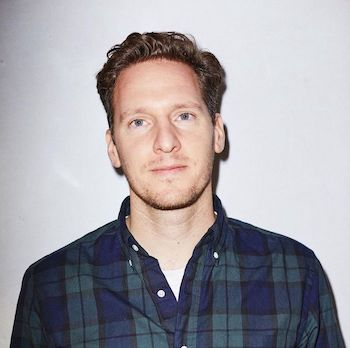
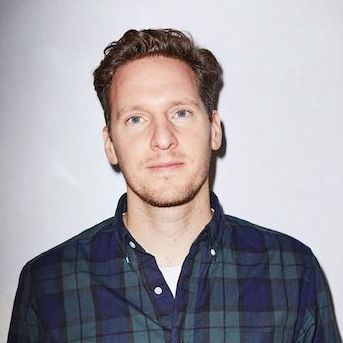
speaker images updated

diff --git a/_includes/block-google-map.html b/_includes/block-google-map.html
@@ -8,16 +8,16 @@
       <div class="bg-box__box">
         <h2 class="page-heading mb-2">{{ section.headline }}</h2>
         <p class="mb-5">{{ section.content }}</p>
-        <p class="text-blue"><strong>
+        <p class="text-blue"><span class="text-grey2 mr-1 ml-1"> | </span><strong>
           {% assign d = page.event_date | date: "%-d" %}
           {% case d %}{% when "1" or "21" or "31" %}{{ d }}st{% when "2" or "22" %}{{ d }}nd{% when "3" or "23" %}{{ d }}rd{% else %}{{ d }}th{% endcase %}
           {{ page.event_date | date: "%B" }}
           {{ page.event_date | date: "%Y" }}
-          <span class="text-grey2 mr-1 ml-1"> | </span><br class="d-sm-none"/><a href="{{ section.gmaps_link }}" target="_blank" title="View our location on a map">{{ section.venue_location }}</a></strong></p>
+          <br class="d-ssdfm-none"/><span class="text-grey2 mr-1 ml-1"> | </span><a href="{{ section.gmaps_link }}" target="_blank" title="View our location on a map">{{ section.venue_location }}</a></strong></p>
         {% assign today_date = 'now' | date: '%s' %}
         {% assign event_secs = page.event_date | date: '%s' %}
         {% if event_secs > today_date %}
-          <a class="with-arrow dark" href="#" data-toggle="modal" data-target="#summitModal" data-subject="Attend Our {{ page.event_name }}">Apply to attend</a>
+          <a class="with-arrow dark mt-3" href="#" data-toggle="modal" data-target="#summitModal" data-subject="Attend Our {{ page.event_name }}">Apply to attend</a>
         {% endif %}
       </div>
 

diff --git a/_includes/block-speaker-cards.html b/_includes/block-speaker-cards.html
@@ -12,7 +12,7 @@
       <div class="row">
         <div class="col-lg-9 offset-lg-3">
 
-          <div class="speakers-container">
+          <div class="speakers-container card-deck">
 
             {% for speaker in section.speakers %}
 

diff --git a/_autotech-events/london-autotech-june-2019.md b/_autotech-events/london-autotech-june-2019.md
@@ -21,7 +21,7 @@ event_block:
     job_title: CEO & Co-Founder
     company: Tier Mobility
     speaker_photo: "/uploads/2019/05/02/lawrence-tier@2x.jpg"
-    company_logo: "/uploads/2019/05/02/tier@2x.jpeg"
+    company_logo: "/uploads/2019/05/02/tier@2x.png"
   - name: George Kalligeros
     job_title: CEO & Co-founder
     company: Pushme
@@ -50,8 +50,8 @@ event_block:
           </div>
         </div>
 - template: google-map
-  lat: '51.502590'
-  lng: "-0.188880"
+  lat: 51.502590
+  lng: -0.188880
   block: google-map
   headline: Don't Royally Miss Out
   content: The royal residence hosts this exciting event, co hosted with Aston Martin
